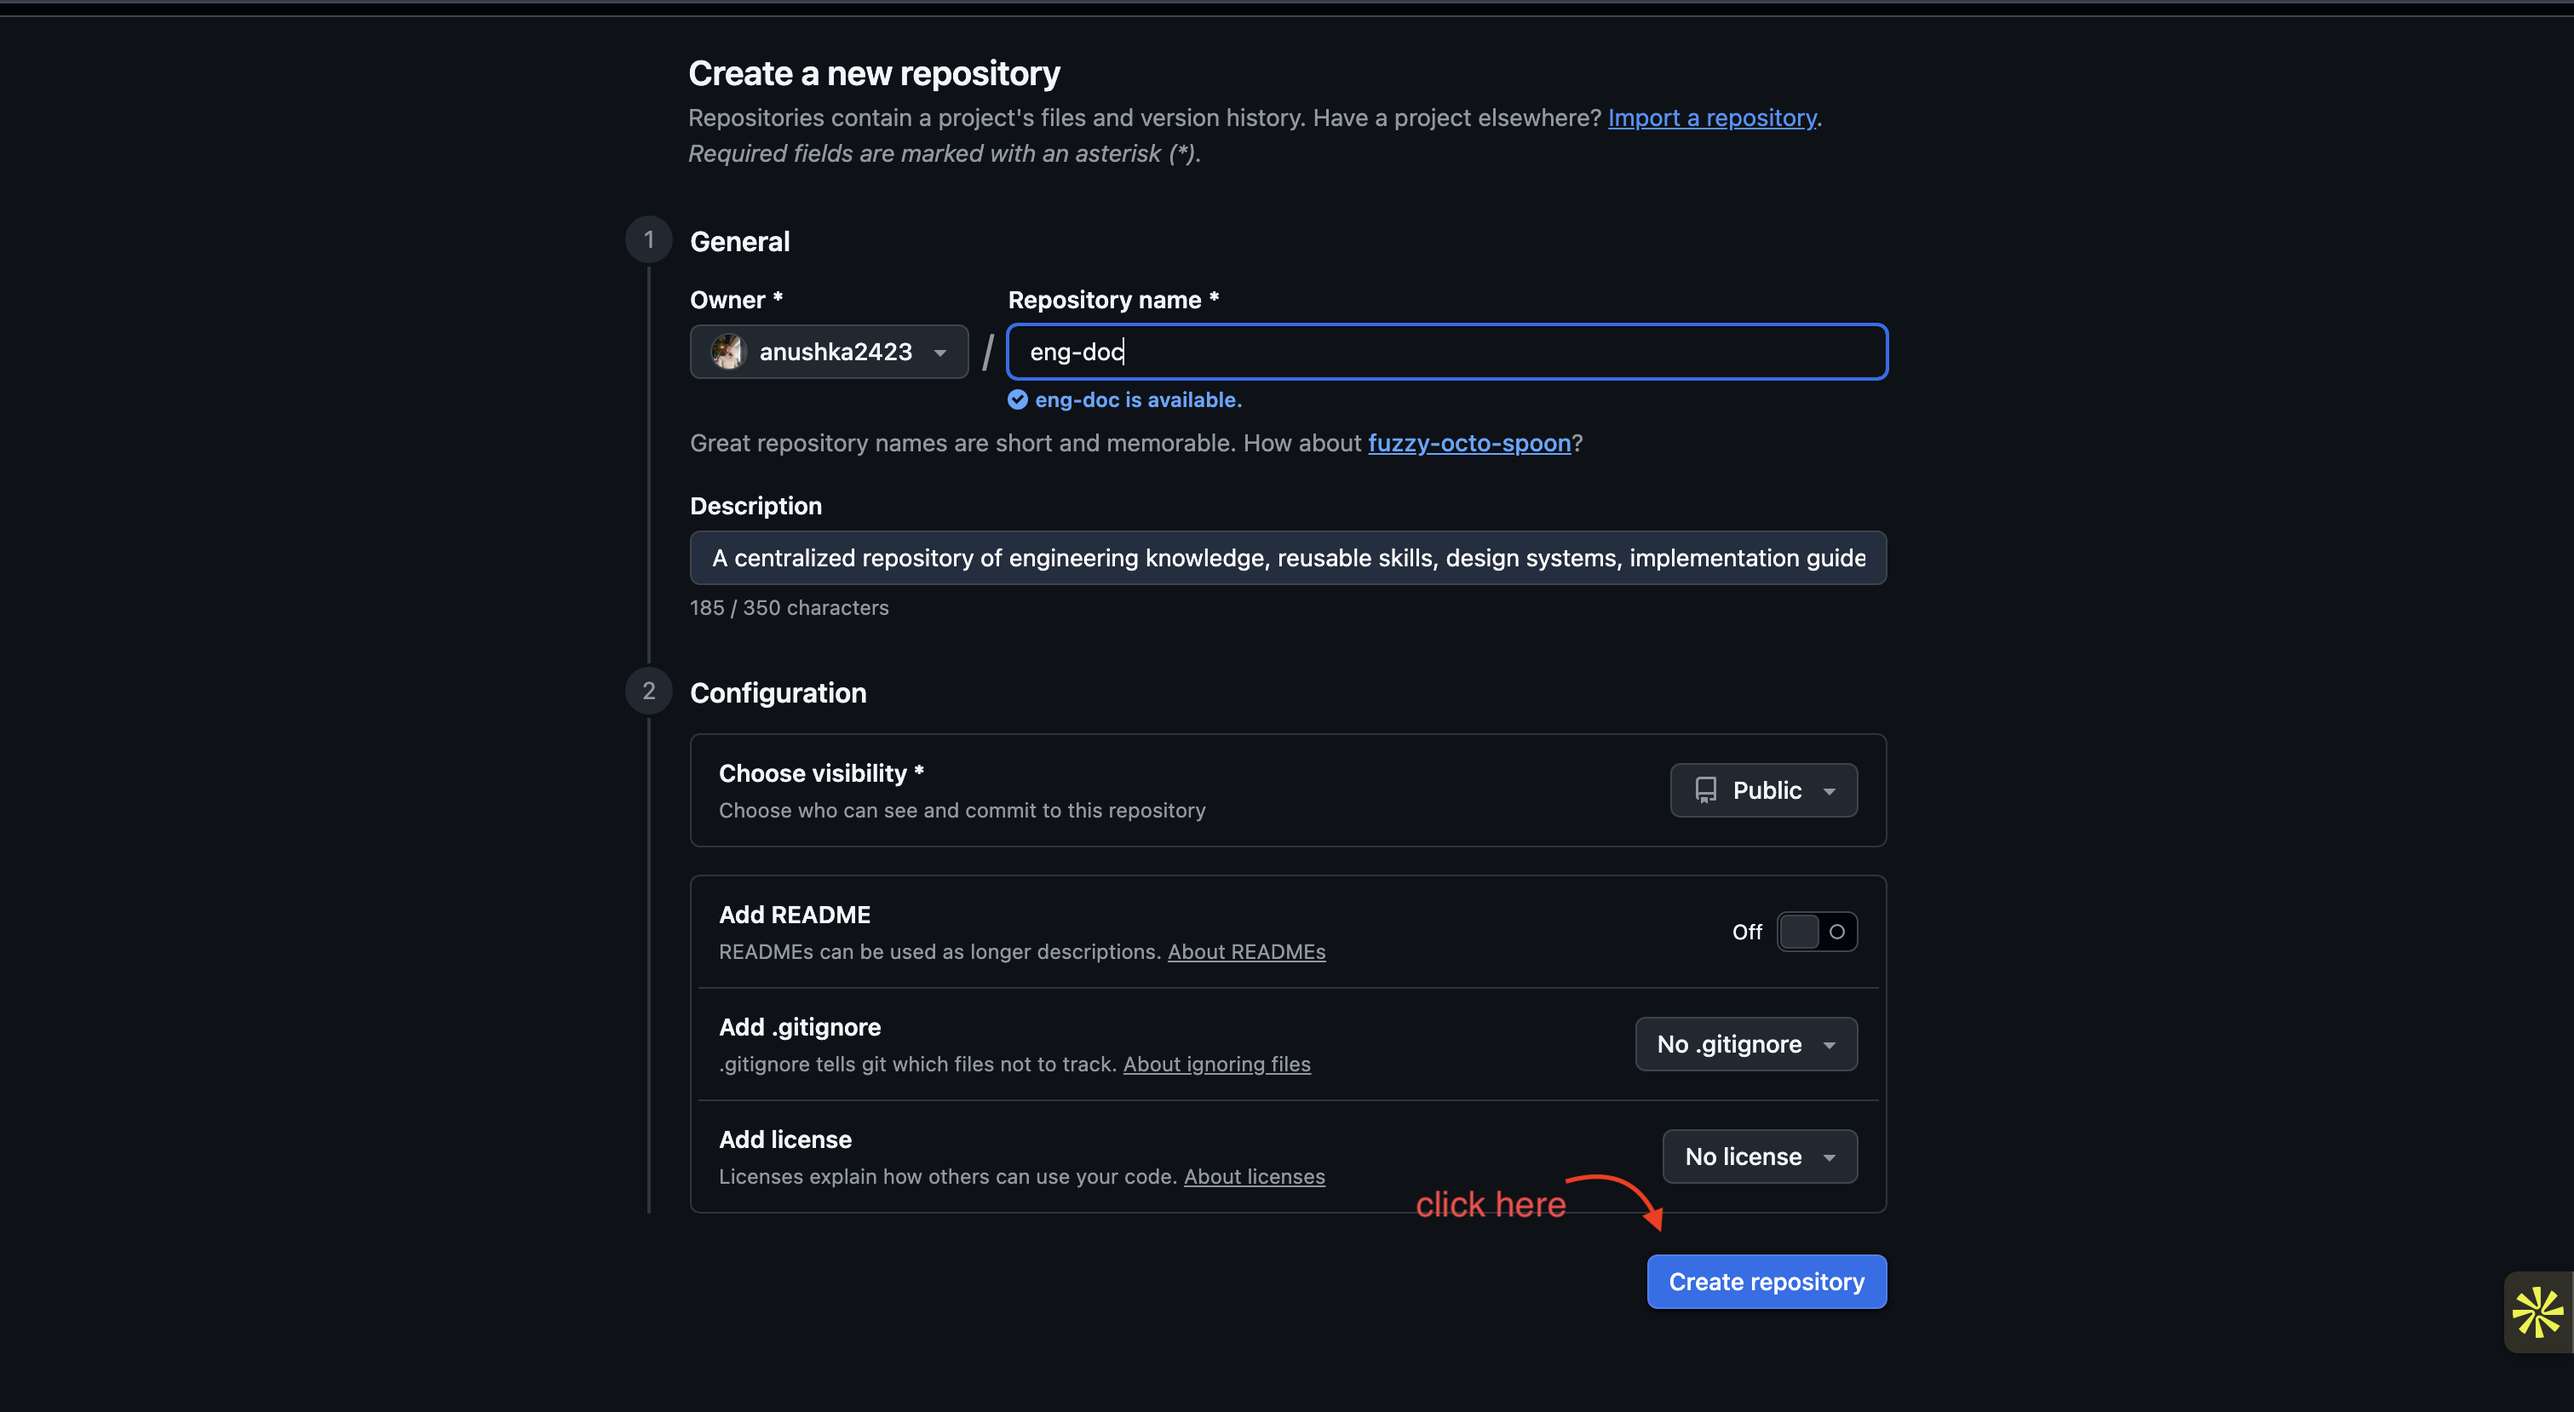
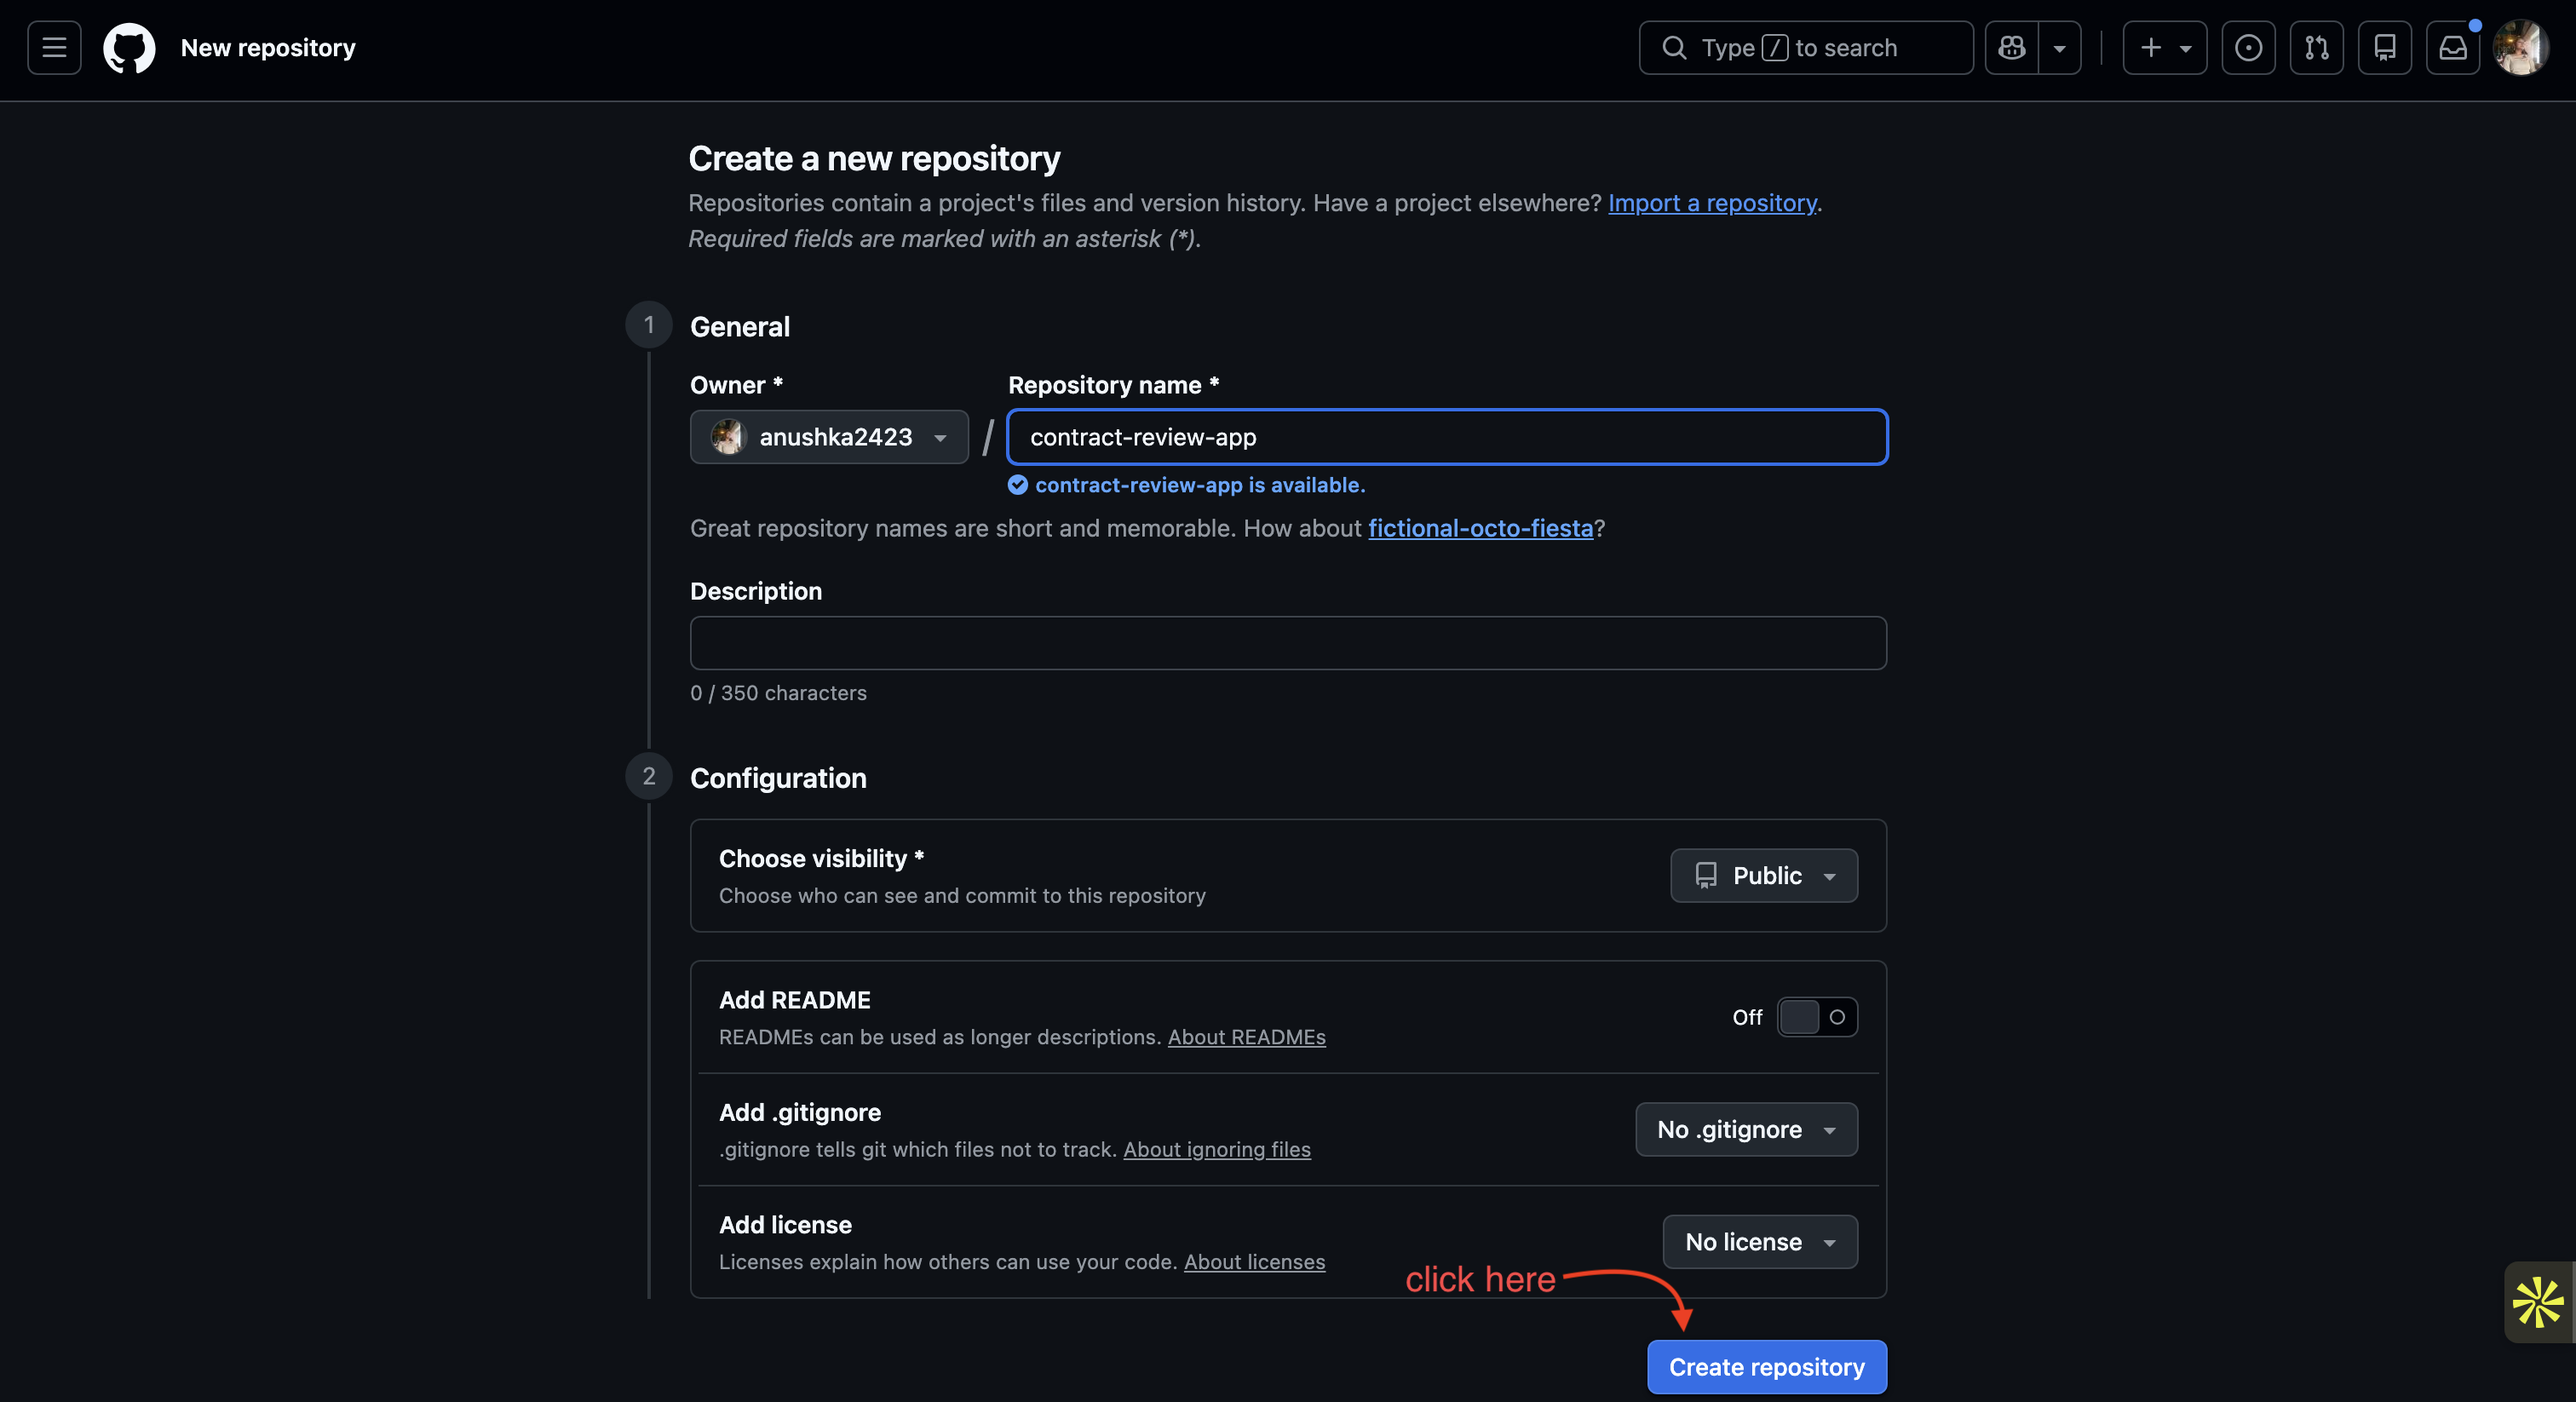
updated pre-reads for contract app rename

diff --git a/Cohort-Labs/cohort-11/pre-reads/0.2-setup-github-account/README.md b/Cohort-Labs/cohort-11/pre-reads/0.2-setup-github-account/README.md
@@ -114,7 +114,7 @@ A repository (or "repo") is a project folder on GitHub that stores your files an
    ![img](./images/6.png)
 2. Fill in the form:
    - **Owner:** your GitHub username [selected by deault]
-   - **Repository name:** for example, `my-first-repo`
+   - **Repository name:** for example, `contract-review-app`
    - **Description:** optional, for example, `My first GitHub repo`
    - **Visibility:** choose **Public** (anyone can see it) or **Private** (only you can see it)
 
@@ -127,7 +127,7 @@ A repository (or "repo") is a project folder on GitHub that stores your files an
 4. GitHub opens your new repo at:
 
    ```
-   https://github.com/<your-username>/my-first-repo
+   https://github.com/<your-username>/contract-review-app
    ```
 
    You'll see an empty repository.
